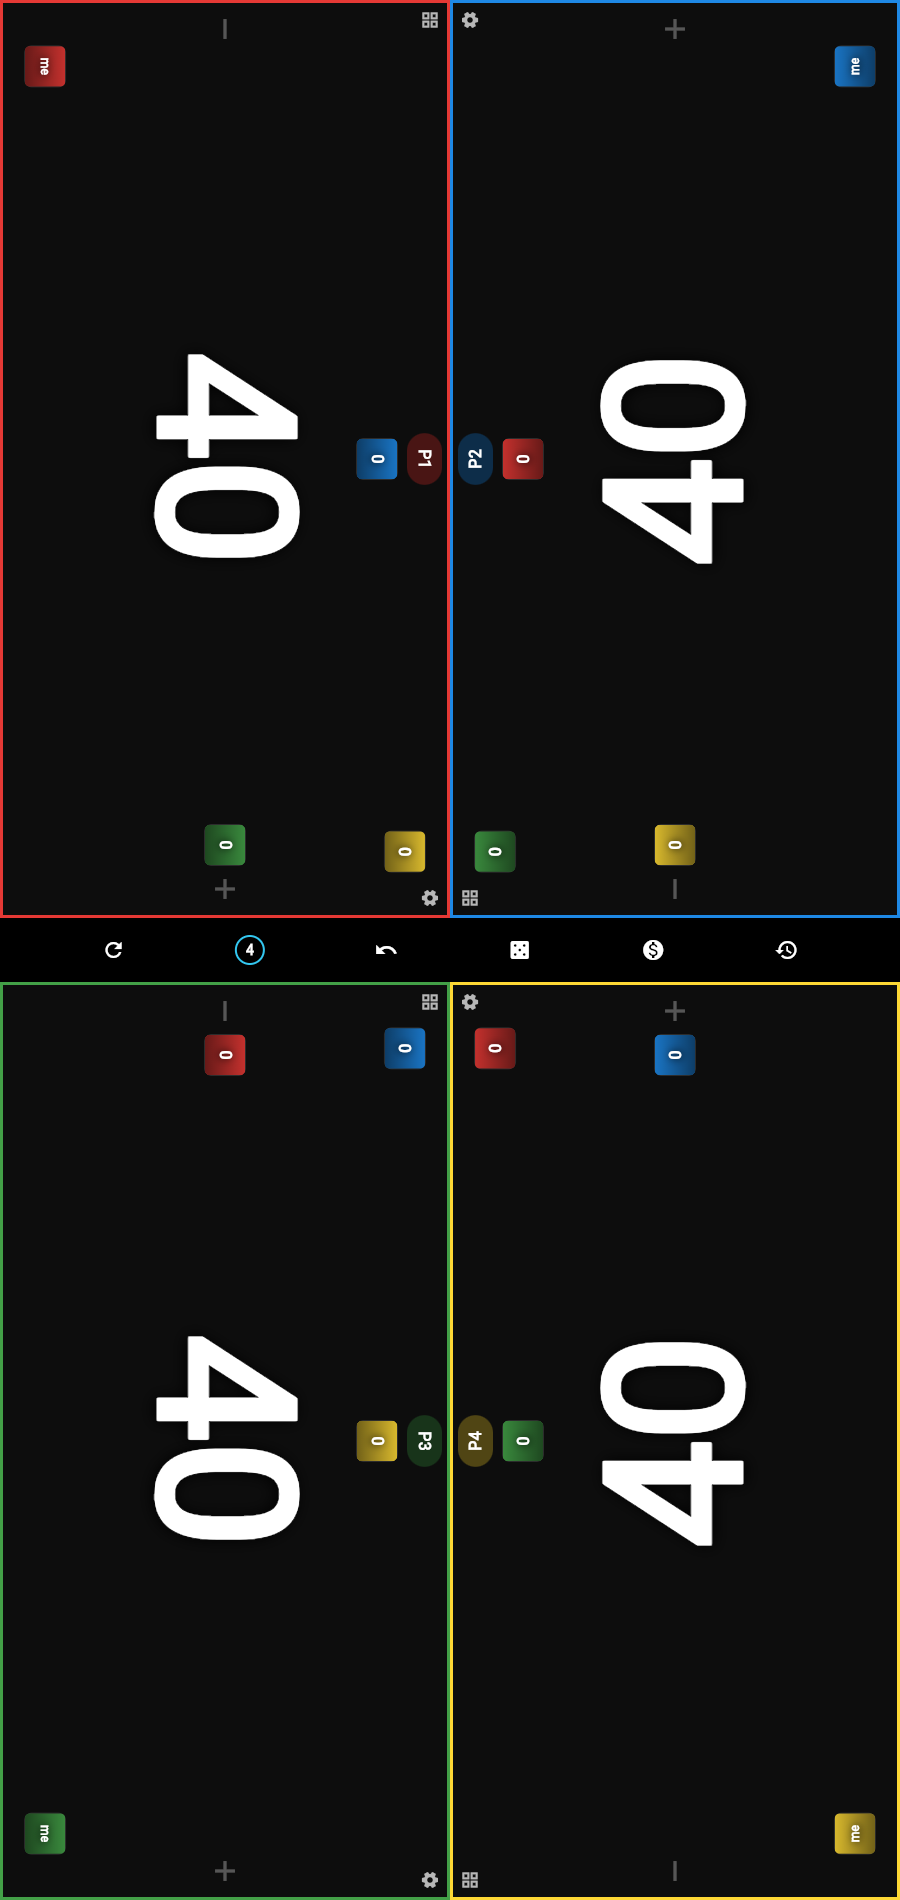
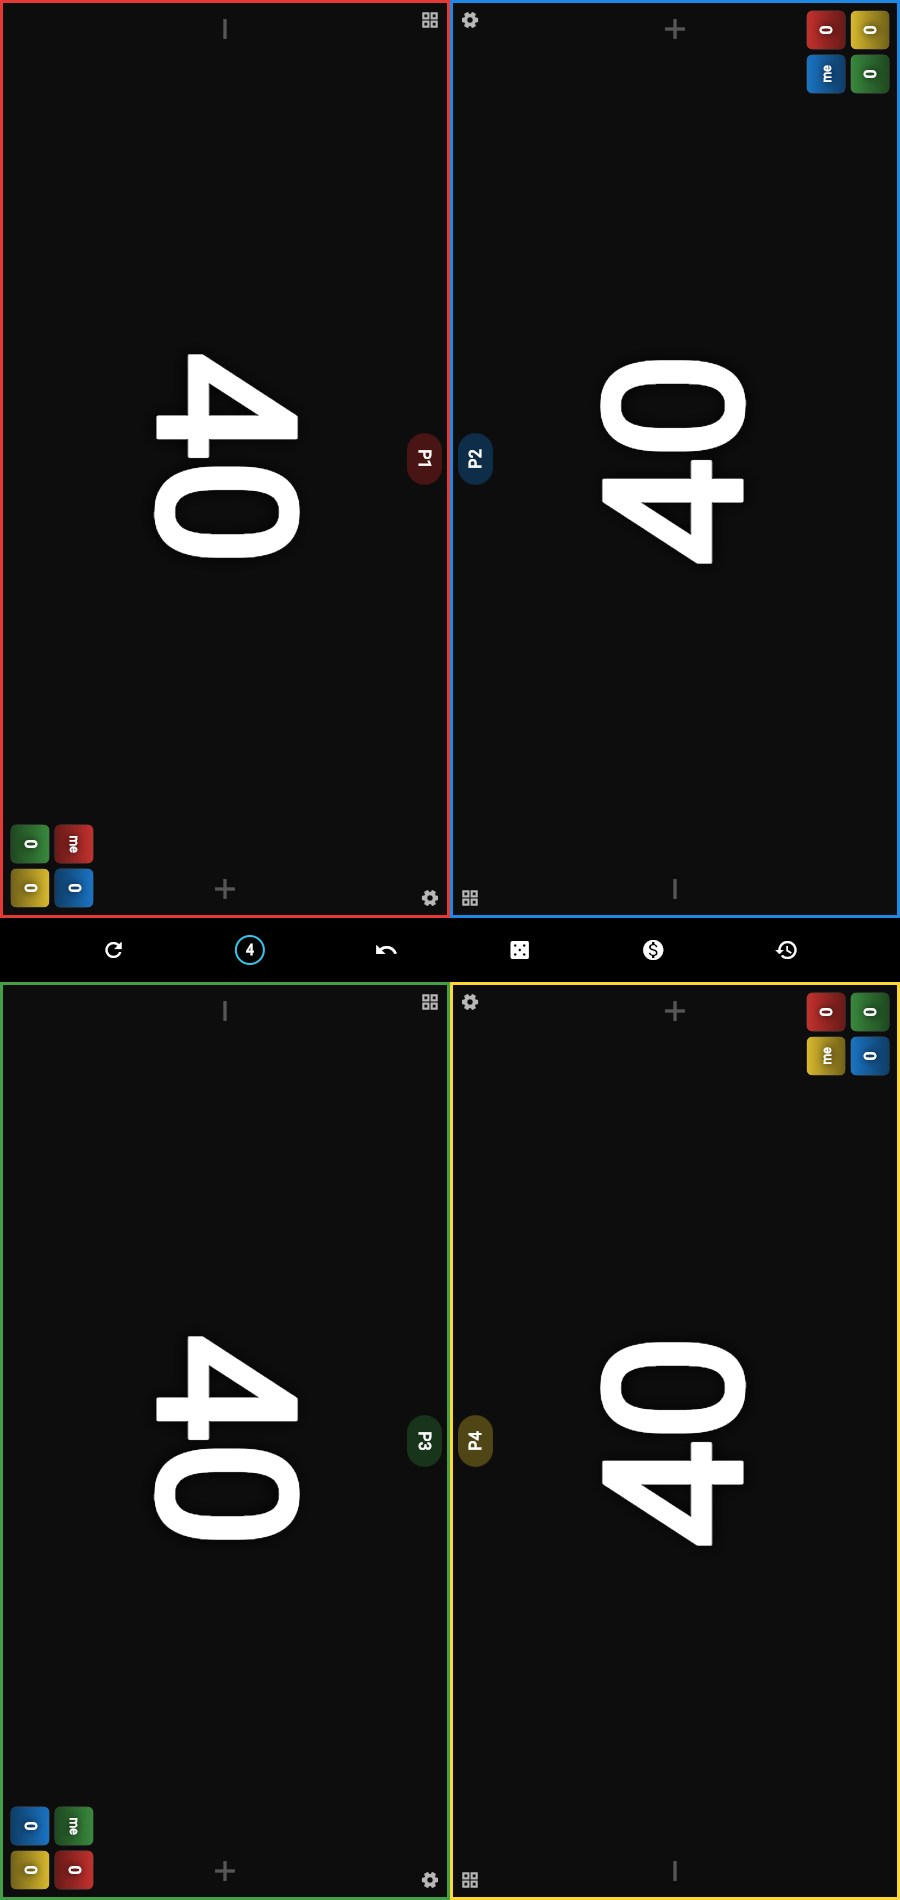
Commander damage as a 2x2 grid in each player's bottom-right corner
Replaced the positional scatter with one compact 2-column grid per player,
anchored in that player's own bottom-right corner (inside the seat's
RotatedBox so it faces them). 'me' first, then opponents by id. Removed the
now-dead positional helpers. Clears the life number and the name pill.
Verified via headless render + 60 unit tests, xvfb integration, web build.

diff --git a/lib/ui/game_screen.dart b/lib/ui/game_screen.dart
@@ -184,54 +184,28 @@ class _GameScreenState extends ConsumerState<GameScreen> {
                     ),
                   ),
                 ),
-              // The commander-damage squares sit above the Listener so their
-              // taps adjust commander damage instead of routing a life tap;
-              // like the gear/name only each square's hit area is consumed, the
-              // rest of the zone falls through to the router. Each square is
-              // positioned in PHYSICAL screen space: an opponent's square sits
-              // on the side of the player's zone that faces that opponent's
-              // seat, and the player's own "me" holder sits toward the zone's
-              // outer edge. Only each square's CONTENT is seat-rotated so it
-              // reads right-side-up for the player; the position stays physical.
-              for (var i = 0; i < players.length; i++) ...[
+              // The commander-damage cells sit above the Listener as ONE
+              // compact grid per player, anchored in that player's OWN
+              // bottom-right corner and rotated to face them. Because the grid
+              // lives inside the seat's RotatedBox, Align.bottomRight lands it
+              // in the player's own corner facing them. Only each cell's hit
+              // area is consumed; the transparent rest of the Align falls
+              // through to the Listener below (same pattern as the
+              // gear/counters/name overlays).
+              for (var i = 0; i < players.length; i++)
                 Positioned.fromRect(
-                  rect: _meSquareRect(rects[i], size),
-                  child: _CommanderDamageSquare(
-                    key: ValueKey('cmdr-me-${players[i].id}'),
+                  rect: rects[i],
+                  child: RotatedBox(
                     quarterTurns: turns[i],
-                    color: Color(players[i].color),
-                    artUrl: players[i].artUrl,
-                    label: 'me',
-                    onTap: () => _showPlayerSettings(players[i].id, turns[i]),
-                    onDecrement: null,
-                  ),
-                ),
-                for (var j = 0; j < players.length; j++)
-                  if (j != i)
-                    Positioned.fromRect(
-                      rect: _opponentSquareRect(rects[i], rects[j]),
-                      child: _CommanderDamageSquare(
-                        key: ValueKey('cmdr-${players[i].id}-${players[j].id}'),
-                        quarterTurns: turns[i],
-                        color: Color(players[j].color),
-                        artUrl: players[j].artUrl,
-                        value: players[i].commanderDamage[players[j].id] ?? 0,
-                        onTap: () => _adjustCommanderDamage(
-                          players[i].id,
-                          players[j].id,
-                          1,
-                        ),
-                        onDecrement:
-                            (players[i].commanderDamage[players[j].id] ?? 0) > 0
-                            ? () => _adjustCommanderDamage(
-                                players[i].id,
-                                players[j].id,
-                                -1,
-                              )
-                            : null,
+                    child: Align(
+                      alignment: Alignment.bottomRight,
+                      child: Padding(
+                        padding: const EdgeInsets.all(10),
+                        child: _commanderDamageGrid(players, i, turns),
                       ),
                     ),
-              ],
+                  ),
+                ),
               // Name labels render last so they stay on top of (and tappable
               // over) any commander-damage square that shares the seat's inner
               // edge; tapping a name opens the rename editor.
@@ -326,6 +300,57 @@ class _GameScreenState extends ConsumerState<GameScreen> {
         );
   }
 
+  /// The compact commander-damage grid for the player at [index]: a 2-column
+  /// [Wrap] whose first cell is that player's own "me" identity holder and the
+  /// rest are one cell per opponent in ascending id order. The caller places
+  /// this grid inside the seat's [RotatedBox] at the bottom-right corner, so
+  /// each cell passes `quarterTurns: 0` (no double rotation) and the grid faces
+  /// the player in their own corner. Opponent cells increment/decrement that
+  /// opponent's commander damage; the "me" cell opens the player's settings.
+  Widget _commanderDamageGrid(
+    List<PlayerState> players,
+    int index,
+    List<int> turns,
+  ) {
+    final me = players[index];
+    final opponents = [
+      for (final p in players)
+        if (p.id != me.id) p,
+    ]..sort((a, b) => a.id.compareTo(b.id));
+    return SizedBox(
+      width: 2 * _cmdrCellSize + _cmdrCellGap,
+      child: Wrap(
+        spacing: _cmdrCellGap,
+        runSpacing: _cmdrCellGap,
+        children: [
+          _CommanderDamageSquare(
+            key: ValueKey('cmdr-me-${me.id}'),
+            size: _cmdrCellSize,
+            quarterTurns: 0,
+            color: Color(me.color),
+            artUrl: me.artUrl,
+            label: 'me',
+            onTap: () => _showPlayerSettings(me.id, turns[index]),
+            onDecrement: null,
+          ),
+          for (final opp in opponents)
+            _CommanderDamageSquare(
+              key: ValueKey('cmdr-${me.id}-${opp.id}'),
+              size: _cmdrCellSize,
+              quarterTurns: 0,
+              color: Color(opp.color),
+              artUrl: opp.artUrl,
+              value: me.commanderDamage[opp.id] ?? 0,
+              onTap: () => _adjustCommanderDamage(me.id, opp.id, 1),
+              onDecrement: (me.commanderDamage[opp.id] ?? 0) > 0
+                  ? () => _adjustCommanderDamage(me.id, opp.id, -1)
+                  : null,
+            ),
+        ],
+      ),
+    );
+  }
+
   /// Opens the seat-rotated counters popup: the fuller management view for this
   /// player's poison/energy/experience and generic named counters.
   Future<void> _showCounters(int playerId, int quarterTurns) async {
@@ -417,72 +442,9 @@ List<Rect> _zoneRects(int count, Size size) {
   return rects;
 }
 
-/// Side length and in-zone margin of a positional commander-damage square.
-const double _cmdrSquareSize = 42;
-const double _cmdrSquareMargin = 6;
-
-/// How far a positional square's near edge sits inside the zone border. Kept
-/// large enough that the squares clear the name pill, which hugs the zone's
-/// inner edge for side-facing seats.
-const double _cmdrEdgeInset = 52;
-
-/// Clamps a [_cmdrSquareSize] square centered at [center] so it stays fully
-/// inside [zone] with [_cmdrSquareMargin] to spare, returning its rect. Keeps a
-/// positional commander-damage square from spilling outside its player's zone;
-/// falls back to the zone center on an axis too small to hold the square.
-Rect _clampSquareInZone(Rect zone, Offset center) {
-  const half = _cmdrSquareSize / 2;
-  final minX = zone.left + _cmdrSquareMargin + half;
-  final maxX = zone.right - _cmdrSquareMargin - half;
-  final minY = zone.top + _cmdrSquareMargin + half;
-  final maxY = zone.bottom - _cmdrSquareMargin - half;
-  final cx = maxX >= minX ? center.dx.clamp(minX, maxX) : zone.center.dx;
-  final cy = maxY >= minY ? center.dy.clamp(minY, maxY) : zone.center.dy;
-  return Rect.fromCenter(
-    center: Offset(cx, cy),
-    width: _cmdrSquareSize,
-    height: _cmdrSquareSize,
-  );
-}
-
-/// Distance from [zone]'s center to its edge along unit vector [dir].
-double _distanceToEdge(Rect zone, Offset dir) {
-  final tx = dir.dx.abs() < 1e-6
-      ? double.infinity
-      : (zone.width / 2) / dir.dx.abs();
-  final ty = dir.dy.abs() < 1e-6
-      ? double.infinity
-      : (zone.height / 2) / dir.dy.abs();
-  return min(tx, ty);
-}
-
-/// Where the square for opponent [opponentZone] lands inside player [zone]:
-/// pushed from the zone center all the way out to the zone edge in that
-/// opponent's direction (then pulled in just enough to stay fully inside), so
-/// the squares hug the perimeter and frame the big life number instead of
-/// covering it. The opponent on the player's physical right shows up on the
-/// right, the one across shows up across, etc.
-Rect _opponentSquareRect(Rect zone, Rect opponentZone) {
-  final toOpponent = opponentZone.center - zone.center;
-  final distance = toOpponent.distance;
-  if (distance == 0) return _clampSquareInZone(zone, zone.center);
-  final dir = toOpponent / distance;
-  final reach =
-      _distanceToEdge(zone, dir) - (_cmdrSquareSize / 2 + _cmdrEdgeInset);
-  return _clampSquareInZone(zone, zone.center + dir * max(reach, 0));
-}
-
-/// Where player [zone]'s own "me" holder lands: pushed to the zone's outer edge
-/// (away from [screen] center) so it sits opposite the opponent squares and
-/// clears the big life number.
-Rect _meSquareRect(Rect zone, Size screen) {
-  final outward = zone.center - screen.center(Offset.zero);
-  final distance = outward.distance;
-  final dir = distance == 0 ? const Offset(0, 1) : outward / distance;
-  final reach =
-      _distanceToEdge(zone, dir) - (_cmdrSquareSize / 2 + _cmdrEdgeInset);
-  return _clampSquareInZone(zone, zone.center + dir * max(reach, 0));
-}
+/// Side length and inter-cell gap of a commander-damage grid cell.
+const double _cmdrCellSize = 40;
+const double _cmdrCellGap = 4;
 
 /// True when the player has reached a lethal threshold under the current
 /// settings — used only for the knocked-out visual, never for game logic.
@@ -865,22 +827,23 @@ class _CounterChip extends StatelessWidget {
   }
 }
 
-/// One positional commander-damage square (side [_cmdrSquareSize], radius 8),
-/// placed in physical screen space by the game screen and oriented for the
-/// player via [quarterTurns]. Its fill is the pictured player's commander art
-/// via [Image.network] ([BoxFit.cover]) when [artUrl] is set, falling back to
-/// their solid [color] while loading, on error, or when no art exists — so the
-/// color never disappears. The fill/number/label are wrapped in a
-/// [RotatedBox]([quarterTurns]) so they read right-side-up for the player even
-/// though the square's position is physical, not inside a zone-wide rotation. A
-/// legibility scrim sits over the fill so the overlaid number (opponent square)
-/// or [label] ("me" square) stays readable. Opaque so its tap is consumed by
-/// this overlay rather than falling through to the life router below. An
-/// opponent square at 21+ ([value] lethal) flags red (border + wash); the "me"
-/// square passes a null [value] and carries no damage number.
+/// One commander-damage grid cell ([size] on a side, radius 8). It sizes
+/// itself so it can flow inside the per-player [Wrap] grid; the grid as a whole
+/// is seat-rotated by the game screen, so each cell passes `quarterTurns: 0`.
+/// Its fill is the pictured player's commander art via [Image.network]
+/// ([BoxFit.cover]) when [artUrl] is set, falling back to their solid [color]
+/// while loading, on error, or when no art exists — so the color never
+/// disappears. The fill/number/label are wrapped in a [RotatedBox]([quarterTurns])
+/// (a no-op at 0, kept for the general case). A legibility scrim sits over the
+/// fill so the overlaid number (opponent cell) or [label] ("me" cell) stays
+/// readable. Opaque so its tap is consumed by this overlay rather than falling
+/// through to the life router below. An opponent cell at 21+ ([value] lethal)
+/// flags red (border + wash); the "me" cell passes a null [value] and carries
+/// no damage number.
 class _CommanderDamageSquare extends StatelessWidget {
   const _CommanderDamageSquare({
     super.key,
+    required this.size,
     required this.quarterTurns,
     required this.color,
     required this.artUrl,
@@ -890,6 +853,7 @@ class _CommanderDamageSquare extends StatelessWidget {
     this.label,
   });
 
+  final double size;
   final int quarterTurns;
   final Color color;
   final String? artUrl;
@@ -918,8 +882,8 @@ class _CommanderDamageSquare extends StatelessWidget {
       onTap: onTap,
       onLongPress: onDecrement,
       child: Container(
-        width: _cmdrSquareSize,
-        height: _cmdrSquareSize,
+        width: size,
+        height: size,
         clipBehavior: Clip.antiAlias,
         decoration: BoxDecoration(
           color: LifeTapColors.chip,

diff --git a/test/ui/commander_damage_test.dart b/test/ui/commander_damage_test.dart
@@ -93,10 +93,9 @@ void main() {
     expect(after.life, before.life);
   });
 
-  testWidgets('commander-damage squares are positional: each opponent points '
-      'toward its seat and the "me" holder sits toward the outer edge', (
-    tester,
-  ) async {
+  testWidgets('commander-damage cells form a compact grid: player 0 has a '
+      '"me" cell plus one cell per opponent, and tapping an opponent cell '
+      'records damage and life loss', (tester) async {
     final container = ProviderContainer();
     addTearDown(container.dispose);
 
@@ -108,19 +107,23 @@ void main() {
     );
     await tester.pump();
 
-    // Default 4-player 2x2 on the 800x600 test surface: player 0 is the
-    // top-left zone. Opponent 1 sits to its physical right, opponent 2 directly
-    // below, and the "me" holder is nudged toward the outer (top-left) edge,
-    // away from the screen centre.
-    final me = tester.getCenter(find.byKey(const ValueKey('cmdr-me-0')));
-    final right = tester.getCenter(find.byKey(const ValueKey('cmdr-0-1')));
-    final below = tester.getCenter(find.byKey(const ValueKey('cmdr-0-2')));
+    // Default 4-player game: player 0's grid holds its own "me" identity cell
+    // plus one cell per opponent (ascending id), all present as hit targets.
+    expect(find.byKey(const ValueKey('cmdr-me-0')), findsOneWidget);
+    expect(find.byKey(const ValueKey('cmdr-0-1')), findsOneWidget);
+    expect(find.byKey(const ValueKey('cmdr-0-2')), findsOneWidget);
+    expect(find.byKey(const ValueKey('cmdr-0-3')), findsOneWidget);
 
-    // Opponent 1's square is pushed toward its seat on the right, opponent 2's
-    // toward its seat below, and the "me" holder sits up-and-left of both.
-    expect(right.dx, greaterThan(me.dx));
-    expect(below.dy, greaterThan(me.dy));
-    expect(right.dx, greaterThan(below.dx));
-    expect(below.dy, greaterThan(right.dy));
+    // The opponent-1 cell is live: tapping it records damage and, with the
+    // life-loss setting on, drops player 0's life by one.
+    final before = container.read(gameProvider).current.player(0);
+    expect(before.commanderDamage[1] ?? 0, 0);
+
+    await tester.tap(find.byKey(const ValueKey('cmdr-0-1')));
+    await tester.pump();
+
+    final after = container.read(gameProvider).current.player(0);
+    expect(after.commanderDamage[1], 1);
+    expect(after.life, before.life - 1);
   });
 }

diff --git a/docs/superpowers/specs/2026-07-12-lifetap2-design.md b/docs/superpowers/specs/2026-07-12-lifetap2-design.md
@@ -55,7 +55,7 @@ An independent black + cyan reskin following a common MTG life-counter layout. I
 - Faint decorative `−`/`+` glyphs on the seated player's own left/right edges — rendered **inside the seat's `RotatedBox`** so they rotate with the seat and always match the router's per-seat sign — added as non-hittable decoration so taps fall through to the life router.
 - A **floating life-change indicator** near the life number: when life changes via the tap/hold/swipe path a small signed `+N` (green `#47C266`) / `−N` (red `#E5533C`) label appears, `w800` with a soft shadow. Consecutive changes to the same player within a ~1.8s window **accumulate into one growing number** (five quick +1 taps read `+5`; a ramping hold reads a climbing `−12`; a swipe contributes ±10); after ~1.8s with no further change it fades out (`AnimatedOpacity`) and resets to nothing. It is seat-rotated (rendered inside the zone's `RotatedBox`) and display-only (`IgnorePointer`, no hit target — taps fall through to the life router). The transient per-player accumulated delta plus its reset timers live in a `lifeDeltaProvider` (`Notifier<Map<int,int>>`) in the **ui/ layer** — deliberately kept out of the pure `game/`/`touch/` layers — bumped from the `_onResult` life-dispatch path; the zone watches its player's entry and renders nothing when it is 0/expired. Commander-damage-induced life loss deliberately does not raise an indicator (it goes through its own dispatch path).
 - A compact cluster of small rounded chips (radius 8) for the player's **non-zero** secondary counters (poison drop, energy bolt, experience, and any non-zero generic named counter — Treasure/Storm/Rad), just above the commander-damage strip.
-- **Positional commander-damage squares** floating over each player's zone, above the `Listener`: small **square** cells (44px, radius 8, dark `#1E1E1E` surface with a thin `#2C2C2C` border), placed in **physical/screen space** rather than in a zone-wide rotated grid so each opponent's square sits on the side of the player's zone that faces **that opponent's seat**. For player P (zone `rectP`, quarter-turns `qP`) and opponent O (zone `rectO`), O's square is centred at `rectP.center + normalize(rectO.center − rectP.center) * 0.30·min(rectP.width, rectP.height)`, then clamped to stay fully inside `rectP` with a small margin — so the opponent on P's physical right shows up on the right, the one across shows up across, etc. P's own **"me" holder** is centred at `rectP.center` nudged toward the zone's **outer edge** (away from screen centre, `0.34·min(w,h)`) so it clears the big life number. Each square's **position is physical, but its CONTENT is wrapped in `RotatedBox(quarterTurns: qP)`** so the art/number/"me" label reads right-side-up for P. Each **opponent** square is filled with that opponent's **commander art** (`Image.network`, `BoxFit.cover`) when their `artUrl` is set, falling back to the opponent's solid **color** while loading, on error, or when no art exists — so the color never disappears — with the damage this player has taken from that commander (default 0) overlaid on a legibility scrim. Tapping a square = **+1** commander damage from that opponent (dispatches `AdjustCommanderDamage` with `reduceLife` set from the "Commander damage life loss" setting); long-press = **−1**, clamped at 0 (disabled at 0). A square at **21+** — lethal — flags red (a 2px red border plus a red wash), and with life-loss on the KO treatment then applies. Each square carries `HitTestBehavior.opaque` and keeps its `ValueKey('cmdr-<playerId>-<oppId>')`, so only its own hit area is consumed; the rest of the zone still taps life. The **"me" identity holder** (`ValueKey('cmdr-me-<playerId>')`) is a same-styled square filled with the player's **own** commander art (or their own color) and a small "me" label; it carries no commander-damage number, and tapping it opens the player's settings sheet (rename/commander/color) rather than incrementing anything. The positional math is general (it reads the zone `rects`), so 2/3/5/6 point each opponent's square toward that opponent's zone the same way. All iconography stays our own Material shapes; the only imagery is the existing Scryfall-art-by-card-name mechanism. The poison/energy/experience counters stay a separate compact chip cluster near the zone's bottom edge.
+- **Commander-damage grid** floating over each player's zone, above the `Listener`: one **compact 2-column grid per player**, anchored in that player's **own bottom-right corner** (was a positional scatter across the zone). Small **square** cells (40px, radius 8, dark `#1E1E1E` surface with a thin `#2C2C2C` border, 4px gaps) flow inside a `Wrap` sized to exactly two columns, so 4 players read as a 2×2, 6 as a 2×3, 3 as a 2×2 with three cells, and 2 as a 2×1. The whole grid sits inside the seat's rotation: for player P (zone `rectP`, quarter-turns `qP`) it is a `Positioned.fromRect(rect: rectP)` → `RotatedBox(quarterTurns: qP)` → `Align(alignment: Alignment.bottomRight)` → `Padding(10)` → the grid, so the grid faces P and lands in P's own bottom-right corner while the transparent rest of the `Align` falls through to the `Listener` (same overlay pattern as the gear/counters/name). Because the grid as a whole is already rotated, each cell passes `quarterTurns: 0` (no double rotation). Cell order is **"me" first, then opponents in ascending id order**. Each **opponent** cell is filled with that opponent's **commander art** (`Image.network`, `BoxFit.cover`) when their `artUrl` is set, falling back to the opponent's solid **color** while loading, on error, or when no art exists — so the color never disappears — with the damage this player has taken from that commander (default 0) overlaid on a legibility scrim. Tapping a cell = **+1** commander damage from that opponent (dispatches `AdjustCommanderDamage` with `reduceLife` set from the "Commander damage life loss" setting); long-press = **−1**, clamped at 0 (disabled at 0). A cell at **21+** — lethal — flags red (a 2px red border plus a red wash), and with life-loss on the KO treatment then applies. Each cell carries `HitTestBehavior.opaque` and keeps its `ValueKey('cmdr-<playerId>-<oppId>')`, so only its own hit area is consumed; the rest of the zone still taps life. The **"me" identity holder** (`ValueKey('cmdr-me-<playerId>')`) is the grid's first cell, filled with the player's **own** commander art (or their own color) and a small "me" label; it carries no commander-damage number, and tapping it opens the player's settings sheet (rename/commander/color) rather than incrementing anything. The grid is seat-relative (it reads the zone `rects` and `seatQuarterTurns`), so 2/3/5/6 each get the same bottom-right grid facing their seat. All iconography stays our own Material shapes; the only imagery is the existing Scryfall-art-by-card-name mechanism. The poison/energy/experience counters stay a separate compact chip cluster near the zone's bottom edge.
 - The gear icon remains in a top corner (above the `Listener`) as the second path to the per-player settings sheet; a **counters affordance** (`Icons.grid_view`, `ValueKey('counters-<id>')`) sits in the opposite top corner (also seat-rotated, above the `Listener`) and opens the counters popup.
 - **Knocked-out (KO) visual** — gated by the Auto-KO setting via `_knockedOut(player, settings)` (life ≤ 0, poison ≥ 10, or, with life-loss on, any commander damage ≥ 21). When a seat is knocked out its big life number is replaced by a large skull glyph (`💀` as `Text`) over the word **KO**, sharing the seat's `RotatedBox` so it faces the player like the number did and scaled by the same `FittedBox`. The whole zone reads as out: the art background is desaturated through a `ColorFiltered` luminance saturation matrix, a dark overlay (`Color(0x8C000000)`) dims the zone under the KO mark, and the secondary counter chips are dimmed to 50%. The name pill, gear/counters affordances, and commander-damage grid (separate overlay layers) stay visible. KO triggers on 0/negative life immediately and on the other lethal thresholds; it is purely visual (never game logic).
 